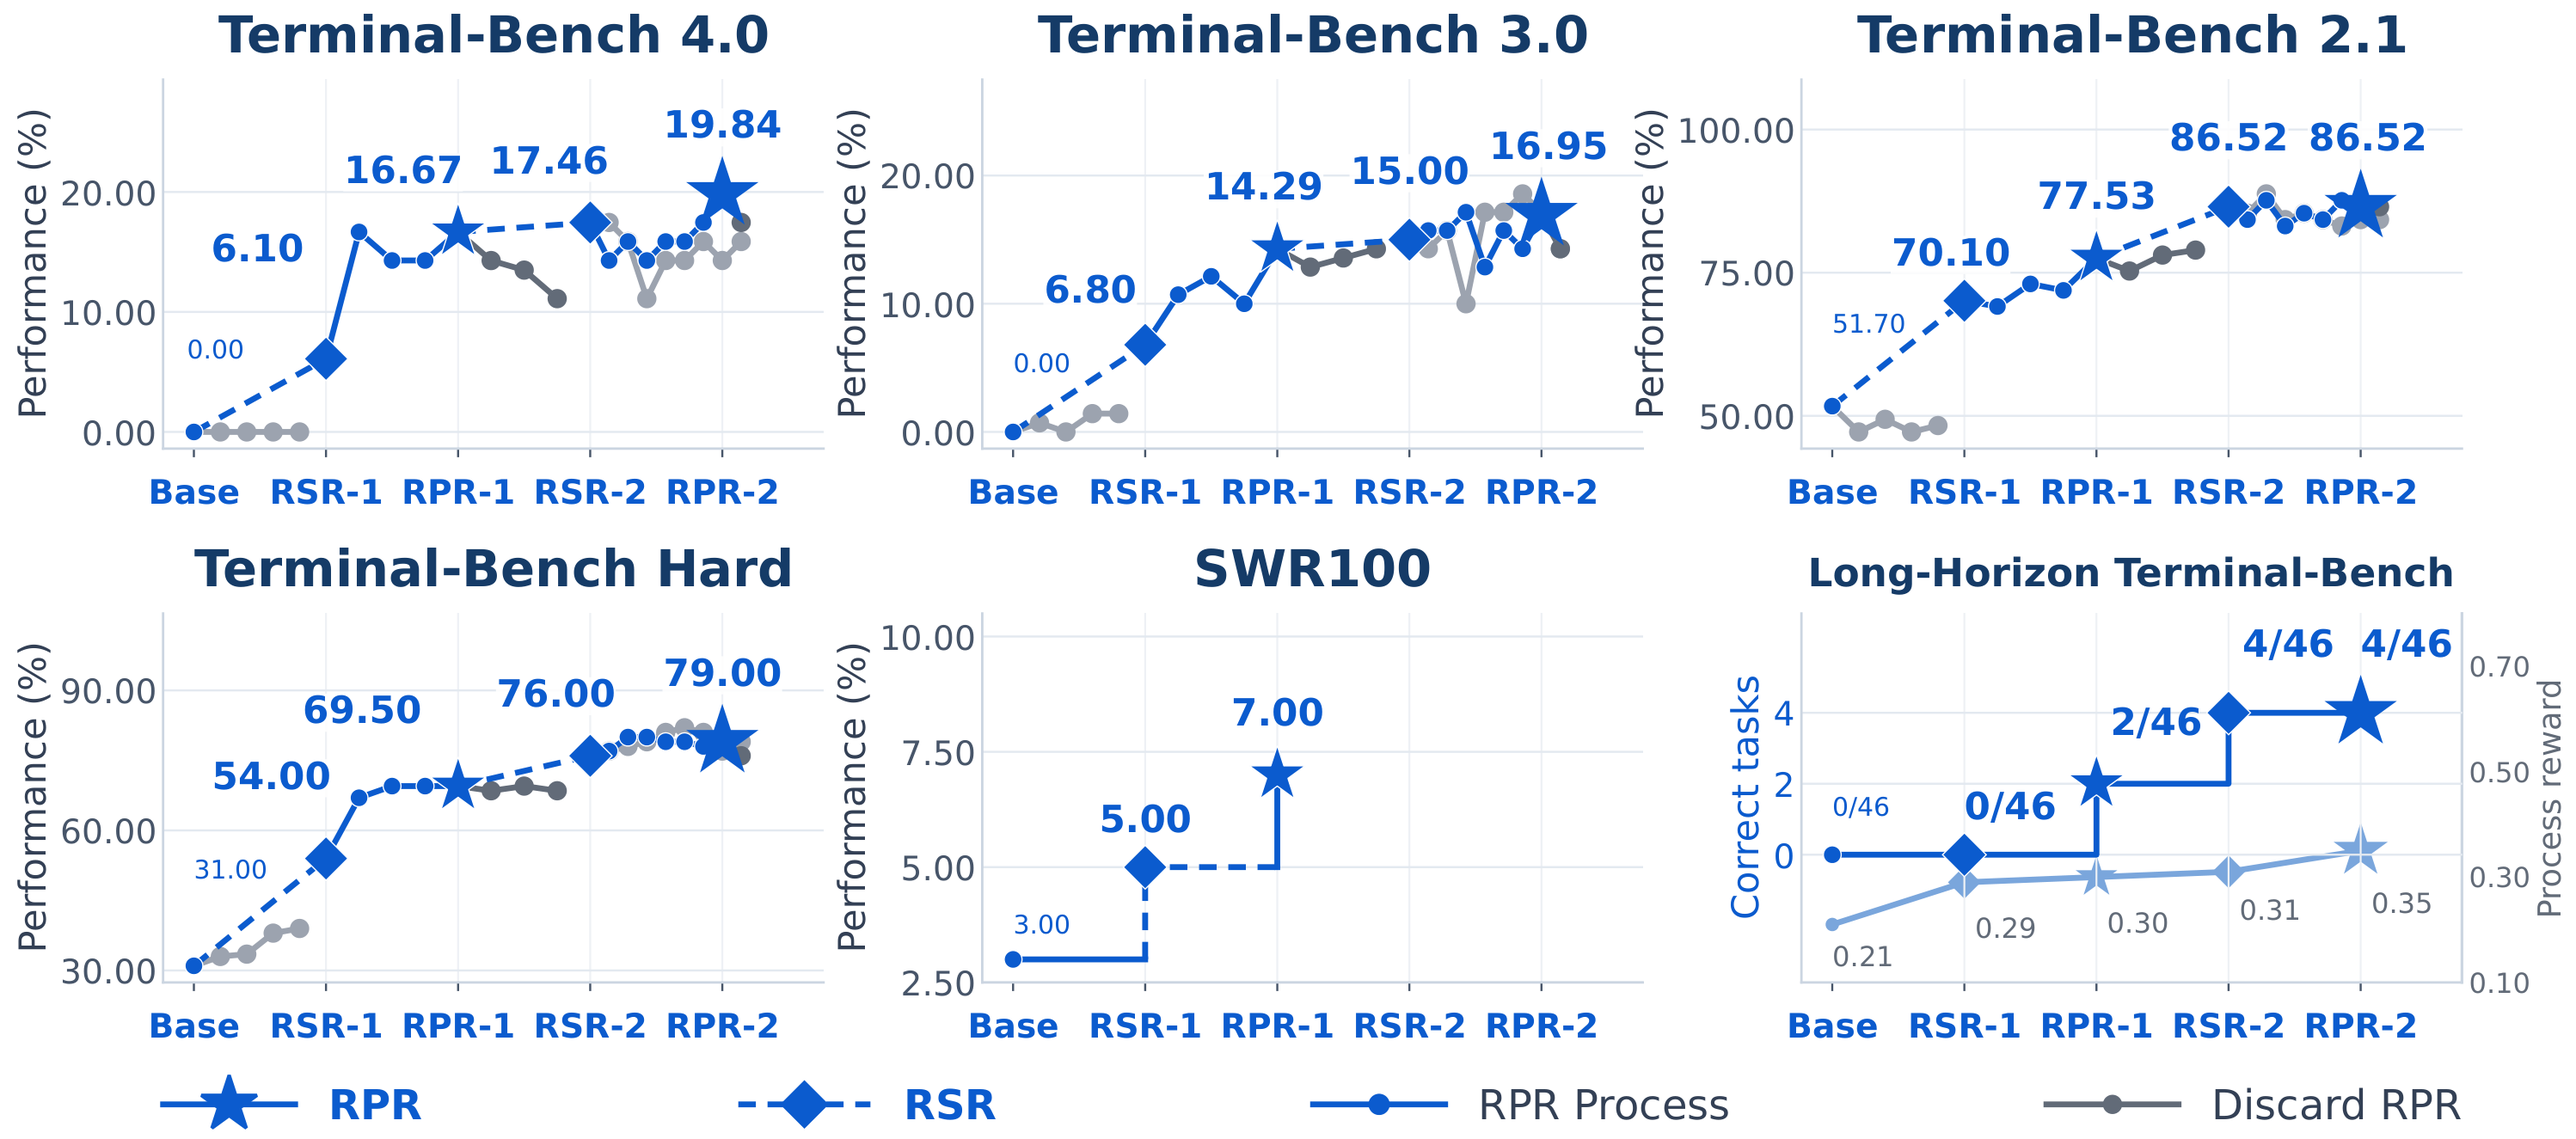
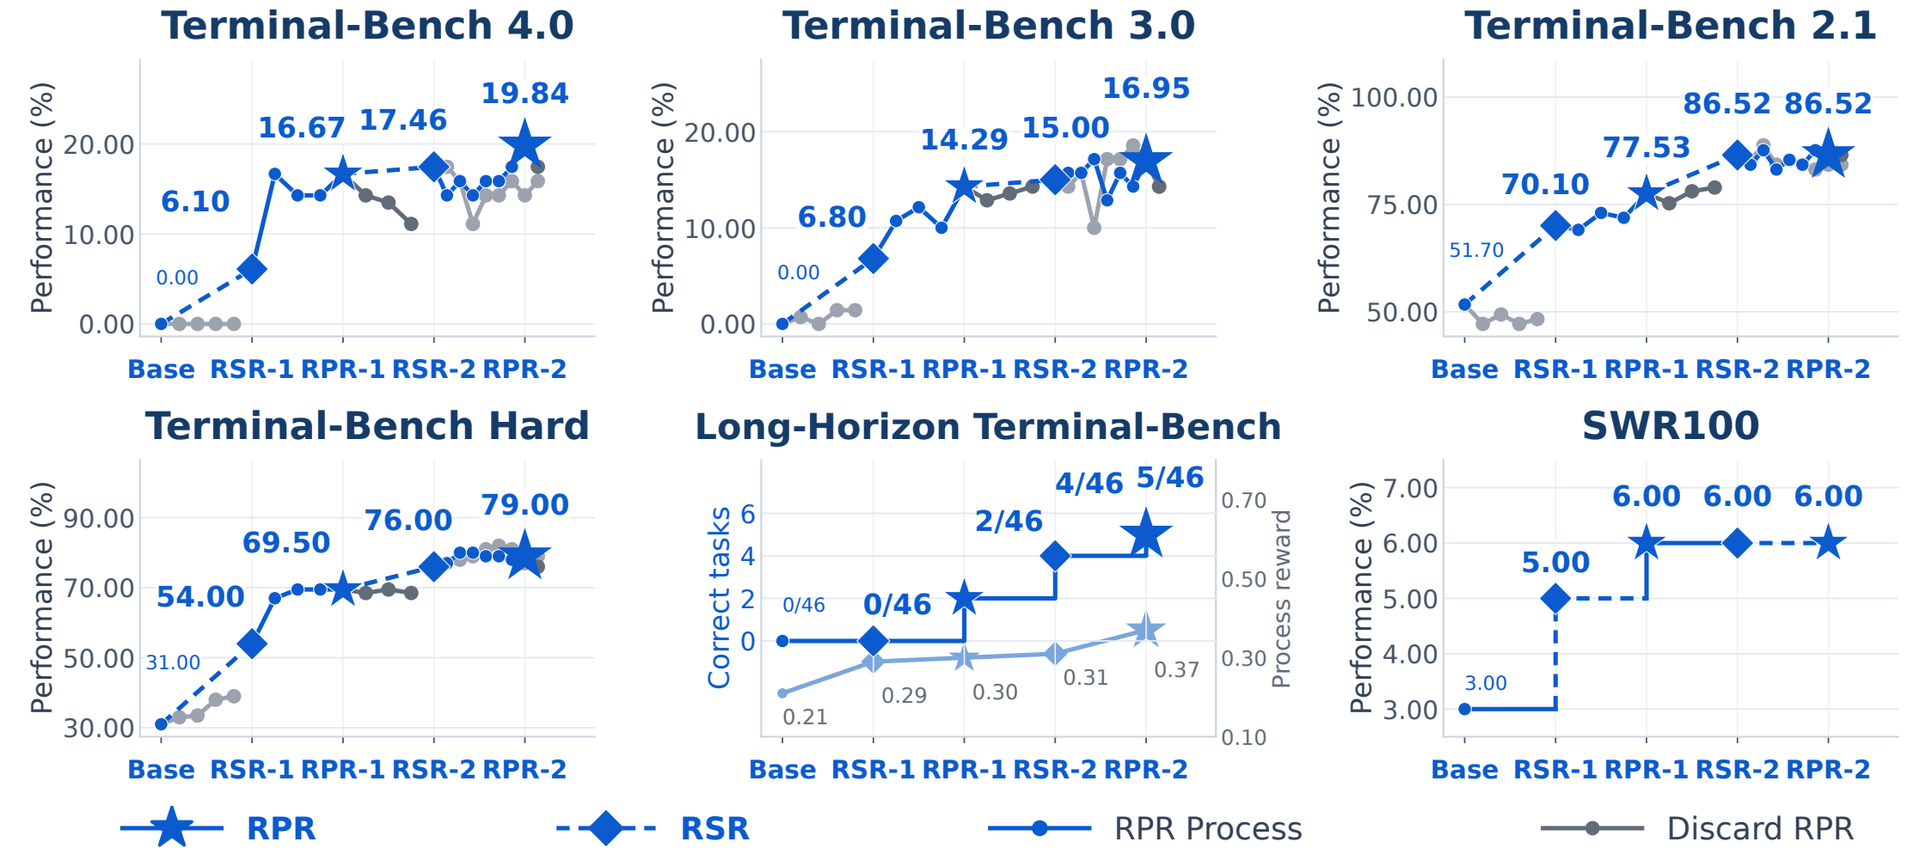
docs: align overview and main figure with arXiv paper

diff --git a/README.md b/README.md
@@ -31,20 +31,20 @@
 
 ## 📖 Overview
 
-Terminal agency is judged by persistent changes to an executable environment rather than by the plausibility of a response. Hundreds of tokens may express one action, thousands of observation tokens may encode no decision, and decisive feedback often arrives many turns later. Effective learning must therefore address both the **scarcity of reproducible successes** and the **alignment of optimization signals with terminal outcomes**.
+Terminal agents must leave an executable environment in a state that passes a protected verifier; fluent plans and locally passed checks are not enough. Long-horizon learning faces **temporal dilation** between tokens and consequential actions, **value drift** after supervised policy changes, and **reward misalignment** between partial progress and strict completion.
 
-**Terminal-RSI** alternates the adopted **Recursive Self-Rewrite (RSR)**, which turns harness-assisted successes into verified public demonstrations, with our proposed **Recursive Policy-Refine (RPR)**, a reinforcement-learning phase that couples a recursively handed-off critic with turn-aware credit assignment and phase-adaptive rewards:
+**Terminal-RSI** alternates adopted **Recursive Self-Rewrite (RSR)** with critic-inheriting **Recursive Policy-Refine (RPR)**. RSR transfers complementary-harness successes through runbook planning, leakage screening, and fresh verified execution into actor-only supervision. RPR recalibrates inherited values before joint PPO updates, coordinating turn-aware credit, evolving rewards, and stage-specific learning rates:
 
-- **Turn-Boundary Skip-Observation GAE (TB-GAE)** keeps token-specific value baselines but applies discount and trace decay only across interaction turns, so observation length no longer attenuates credit. Successor values *and* advantages are carried across computational chunks, so splitting a trajectory introduces no truncation error.
-- **Family Dense Reward (FDR)** normalizes semantic-check progress by a per-family divisor, removing the up-to-795× reward-scale spread between task families.
-- **Success-Prioritized Reward (SPR)** adds a strict-success offset and a saturating progress term, so an incomplete trajectory can never outrank a successful one by accumulating partial checks.
-- **Recursive critic handoff.** The critic is carried unchanged through actor-only RSR stages and briefly recalibrated (four critic-only updates) at the start of every RPR phase.
+- **Turn-Boundary Skip-Observation GAE (TB-GAE)** retains token-specific baselines while applying discount and trace decay only across interaction turns. Observations condition values but are not recursion nodes. Exact continuation across computational chunks requires both successor values and advantages on an unchanged input chain.
+- **Family Dense Reward (FDR)** calibrates semantic progress using frozen per-family divisors derived from historical check counts, rather than a single global reward scale.
+- **Success-Prioritized Reward (SPR)** combines strict-success credit with bounded, saturating partial progress: every failure scores below one and every success at least one.
+- **Recursive critic handoff.** An initial critic-only epoch prepares the Warm-up Critic Model. Actor-only RSR preserves critic weights; each RPR phase then performs four critic-only calibration updates before joint optimization, with a fivefold actor-rate reduction in the second cycle.
 
-Starting from Qwen3.8-27B, the sequence **Base → RSR-1 → RPR-1 → RSR-2 → RPR-2** yields **Terminal-RSI-27B** (RPR-2, step 18), which reaches **86.52%** on Terminal-Bench 2.1, **16.95%** on Terminal-Bench 3.0, **19.84%** on Terminal-Bench 4.0 and **79.00%** on Terminal-Bench Hard. Its **50.58%** four-suite macro-average is up from 20.68% at Base and 34.25% at RSR-1. Separately, rescoring 4,352 fixed trajectories with SPR reduces the failed trajectories' share of reward mass from **50.09%** to **28.72%**.
+From Qwen3.8-27B, **Base → RSR-1 → RPR-1 → RSR-2 → RPR-2** yields **Terminal-RSI-27B** (RPR-2, step 18): **19.84%** on Terminal-Bench 4.0, **86.52%** on 2.1, **16.95%** on 3.0, and **79.00%** on Hard. Four-suite macro-average success rises from **20.68%** to **50.58%**. LHTB process reward increases from **0.21** to **0.37**, with strict completion rising from **0/46** to **5/46**; SWR100 success doubles from **3.00%** to **6.00%**. Separately, rescoring 4,352 fixed trajectories with SPR reduces failed reward share from **50.09%** to **28.72%**, measuring reward allocation rather than an isolated online training effect.
 
 <div align="center">
-<img src="assets/figure1_rsi_main_results.png" alt="Figure 1" width="100%"/>
-<p><b>Figure 1. Retained-stage gains coexist with nonmonotonic exploration.</b> Positions denote Base, RSR-1, RPR-1 (step 20), RSR-2 and RPR-2 (step 18, Terminal-RSI-27B). These are stage positions, not equal compute intervals. Blue diamonds mark RSR, stars the retained RPR checkpoints, and gray branches unretained controls or continuations. LHTB shows completed tasks (left axis) and process reward (right axis).</p>
+<img src="assets/figure1_rsi_main_results.png" alt="Figure 1: five retained stages on terminal and long-horizon benchmarks" width="100%"/>
+<p><b>Figure 1. Evaluation across five retained stages on terminal and long-horizon benchmarks.</b> Positions order Base, RSR-1, RPR-1 (step 20), RSR-2, and RPR-2 (step 18, Terminal-RSI-27B), not equal compute intervals. Dashed lines and diamonds denote RSR; solid lines and stars denote retained RPR; gray branches show discarded alternatives. Terminal-Bench and SWR100 report Mean@3 success (%). LHTB separates mean strictly completed tasks (left axis) from process reward (right axis).</p>
 </div>
 
 ## 📊 Results
